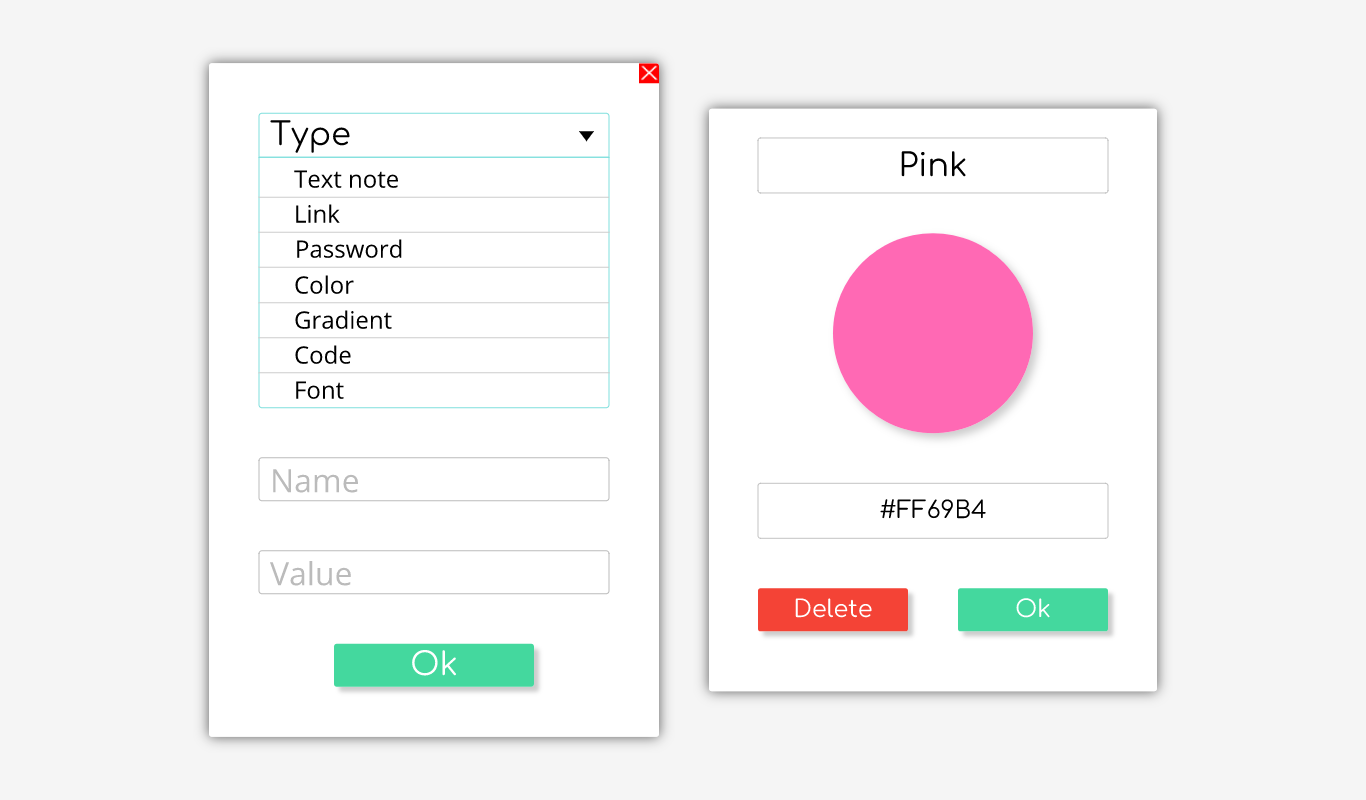
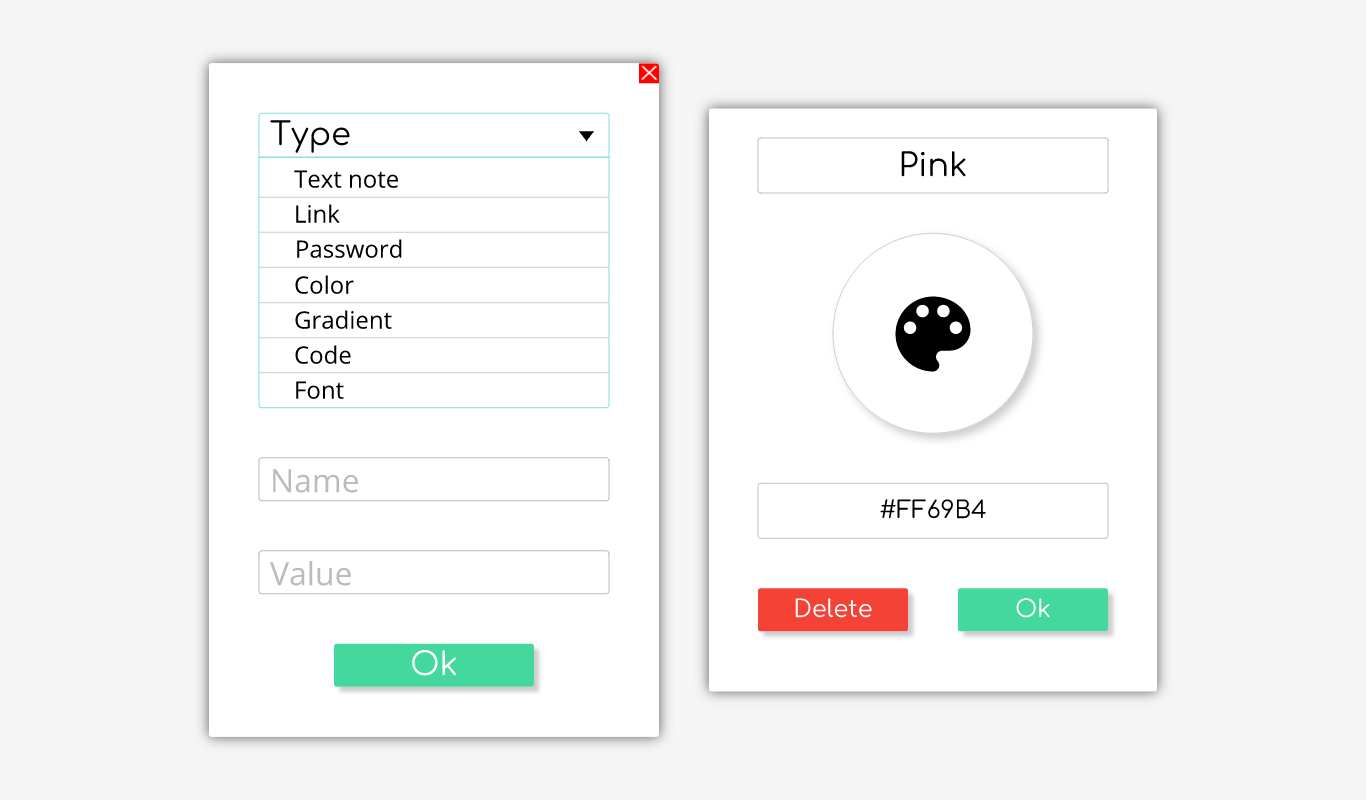
added more functionality

Changed region(s): [[0.5842, 0.2812, 0.7687, 0.5625]]

diff --git a/js/functions.js b/js/functions.js
@@ -1,6 +1,6 @@
 const items = $.parseJSON(localStorage.getItem('items')) || [];
 const itemsBoard = $('#mainBoard');
-
+var currentIndex = -1;
 
 //			ALL THE FUNCTIONS
 
@@ -45,24 +45,47 @@ function updateList(cards = [], cardList){
 	checkNotes();
 }
 
-// Deleting the item
-function deleteItem(e){
+// Opening settings popup
+function openSettings(e){
 	const popupDisplay = $('#popup').css('display');
 
 	if(popupDisplay != 'none') $('#closeButton').trigger('click');
 
-	if(!e.target.matches('div')) return;
-	
-	if(confirm('Delete item?') == true){
-		const index = $(e.target).data("index");
+	// If it's clicked on the item's child, send click to the item itself
+	if(e.target.matches('.colorCircle') || e.target.matches('.heading') || e.target.matches('.text')) e.target = $(e.target).parent();
 
-		items.splice(index, 1);
+	const index = $(e.target).data('index');
+	console.log(e.target);
+	if($('#settings').css('display') == 'none'){
+		console.log('yeah, it is');
+		$('#settings').css('display', 'flex');
+	}
+	$('.header').val(items[index].heading);
+	$('.textVal').val(items[index].text);
+	
+	currentIndex = index;
+} 
+
+// Deleting the item
+function deleteItem(item){
+	if(confirm('Delete item?') == true){
+		items.splice(item, 1);
 		localStorage.setItem('items', JSON.stringify(items));
 		updateList(items, itemsBoard);
 		checkNotes();
 	} else {
 		return;
 	}
+}
+
+// Editing the item
+function editItem(item){
+	items[item].heading = $('.header').val();
+	items[item].text = $('.textVal').val();
+	localStorage.setItem('items', JSON.stringify(items));
+	updateList(items, itemsBoard);
+	checkNotes();
+	$('#settings').css('display') == 'flex' ? $('#settings').css('display', 'none') : ''
 }
 
 // Add some text if there are no notes
@@ -92,8 +115,8 @@ function checkNotes(){
 // Add items from localStorage or a message
 items == '' ? checkNotes() : updateList(items, itemsBoard);
 
-// deleteItem function starts after click
-$('#mainBoard').on('click', deleteItem);
+// openSettings function starts after click
+$('.item').on('click', openSettings);
 
 // Opening the popup window
 $("#addButton").click(() => {
@@ -103,6 +126,11 @@ $("#addButton").click(() => {
 
 // Closing the popup window
 $("#closeButton").on("click", () => $("#popup").css('display', 'none'));
+
+// Editing the item
+$('#setOk').on('click', function(){
+	editItem(currentIndex);
+});
 
 // Add item after click
 $('#okBut').on('click', () => {
@@ -144,11 +172,11 @@ $(document).keydown(function(e){
 });
 
 
-// 			SERVICE WORKER
+// // 			SERVICE WORKER
 
-if('serviceWorker' in navigator){
-	navigator.serviceWorker.register('sw.js')
-	.then(function() {
-		console.log("Service Worker Registered"); 
-	});
-};
+// if('serviceWorker' in navigator){
+// 	navigator.serviceWorker.register('sw.js')
+// 	.then(function() {
+// 		console.log("Service Worker Registered"); 
+// 	});
+// };

diff --git a/css/style.css b/css/style.css
@@ -269,6 +269,86 @@ main {
     -webkit-box-shadow: 0 0 15px #71c5e7;
     box-shadow: 0 0 15px #71c5e7; }
 
+#settings {
+  position: fixed;
+  top: calc(50% - 225px);
+  left: calc(50% - 175px);
+  width: 350px;
+  height: 450px;
+  display: none;
+  -webkit-box-orient: vertical;
+  -webkit-box-direction: normal;
+  -webkit-flex-direction: column;
+  -ms-flex-direction: column;
+  flex-direction: column;
+  -webkit-box-align: center;
+  -webkit-align-items: center;
+  -ms-flex-align: center;
+  align-items: center;
+  -webkit-justify-content: space-around;
+  -ms-flex-pack: distribute;
+  justify-content: space-around;
+  border-radius: 3px;
+  -webkit-box-shadow: 0 0 15px rgba(0, 0, 0, 0.65);
+  box-shadow: 0 0 15px rgba(0, 0, 0, 0.65);
+  background-color: white;
+  z-index: 10; }
+  #settings input {
+    width: 85%;
+    height: 35px;
+    border: 1px solid #bbbbbb;
+    border-radius: 3px;
+    font-size: 24px;
+    text-align: center; }
+  #settings .palette {
+    height: 150px;
+    width: 150px;
+    display: -webkit-box;
+    display: -webkit-flex;
+    display: -ms-flexbox;
+    display: flex;
+    -webkit-box-align: center;
+    -webkit-align-items: center;
+    -ms-flex-align: center;
+    align-items: center;
+    -webkit-box-pack: center;
+    -webkit-justify-content: center;
+    -ms-flex-pack: center;
+    justify-content: center;
+    border: 1px solid #ccc;
+    border-radius: 50%;
+    -webkit-box-shadow: 5px 5px 10px #ccc;
+    box-shadow: 5px 5px 10px #ccc;
+    cursor: pointer; }
+  #settings .buttons {
+    width: 85%;
+    height: 40px;
+    display: -webkit-box;
+    display: -webkit-flex;
+    display: -ms-flexbox;
+    display: flex;
+    -webkit-box-align: stretch;
+    -webkit-align-items: stretch;
+    -ms-flex-align: stretch;
+    align-items: stretch;
+    -webkit-box-pack: justify;
+    -webkit-justify-content: space-between;
+    -ms-flex-pack: justify;
+    justify-content: space-between; }
+    #settings .buttons button {
+      width: 125px;
+      border: none;
+      border-radius: 3px;
+      outline: none;
+      font-size: 18px;
+      color: white;
+      -webkit-box-shadow: 5px 5px 5px #ccc;
+      box-shadow: 5px 5px 5px #ccc; }
+    #settings .buttons .del {
+      background-color: #F44336; }
+    #settings .buttons #setOk {
+      background-color: #44D89E; }
+
 @media (max-width: 770px) {
   body {
     height: calc(100vh - 120px); }

diff --git a/index.html b/index.html
@@ -11,7 +11,7 @@
 	<link rel="stylesheet" href="css/style.css">
 	<link rel="manifest" href="manifest.json">
 	<link rel="icon" href="img/logo48.png" type="image/png" />
-	<script src="sw.js" async></script>
+<!-- 	<script src="sw.js" async></script> -->
 	<script src="https://ajax.googleapis.com/ajax/libs/jquery/3.2.1/jquery.min.js"></script>
 </head>
 <body>
@@ -20,7 +20,7 @@
 		<input type="text" id="search" placeholder="Search my note">
 	</header>
 	<main>
-	<section id="mainBoard"></section>
+		<section id="mainBoard"></section>
 		<div id="popup">
 			<button id="closeButton">x</button>
 			<select id="type">
@@ -34,7 +34,18 @@
 			<input type="text" id="text" name="text" placeholder=" Text">
 			<button id="okBut">Ok</button>
 		</div>
-	<button id="addButton">+</button>
+		<div id="settings">
+				<input type="text" class="header" placeholder="Heading">
+				<div class="palette">
+					<img src="img/palette.svg" height='75'>
+				</div>
+				<input type="text" class="textVal" placeholder="Text">
+				<div class="buttons">
+					<button class="del">Delete</button>
+					<button id="setOk">Ok</button>
+				</div>
+		</div>
+		<button id="addButton">+</button>
 	</main>
 	<script src="js/functions.js" async></script>
 </body>

diff --git a/css/style.sass b/css/style.sass
@@ -251,6 +251,61 @@ main
 	&:focus
 		box-shadow: 0 0 15px darken(skyblue, 5%)
 
+#settings
+	position: fixed
+	top: calc(50% - 225px)
+	left: calc(50% - 175px)
+	width: 350px
+	height: 450px
+	display: none
+	flex-direction: column
+	align-items: center
+	justify-content: space-around
+	border-radius: 3px
+	box-shadow: 0 0 15px rgba(0, 0, 0, .65)
+	background-color: white
+	z-index: 10
+
+	input
+		width: 85%
+		height: 35px
+		border: 1px solid #bbbbbb
+		border-radius: 3px
+		font-size: 24px
+		text-align: center
+	
+	.palette
+		height: 150px
+		width: 150px
+		display: flex
+		align-items: center
+		justify-content: center
+		border: 1px solid #ccc
+		border-radius: 50%
+		box-shadow: 5px 5px 10px #ccc
+		cursor: pointer
+	
+	.buttons
+		width: 85%
+		height: 40px
+		display: flex
+		align-items: stretch
+		justify-content: space-between
+	
+		button
+			width: 125px
+			border: none
+			border-radius: 3px
+			outline: none
+			font-size: 18px
+			color: white
+			box-shadow: 5px 5px 5px #ccc
+	
+		.del
+			background-color: #F44336
+	
+		#setOk
+			background-color: #44D89E
 
 @media (max-width: 770px)
 	body
